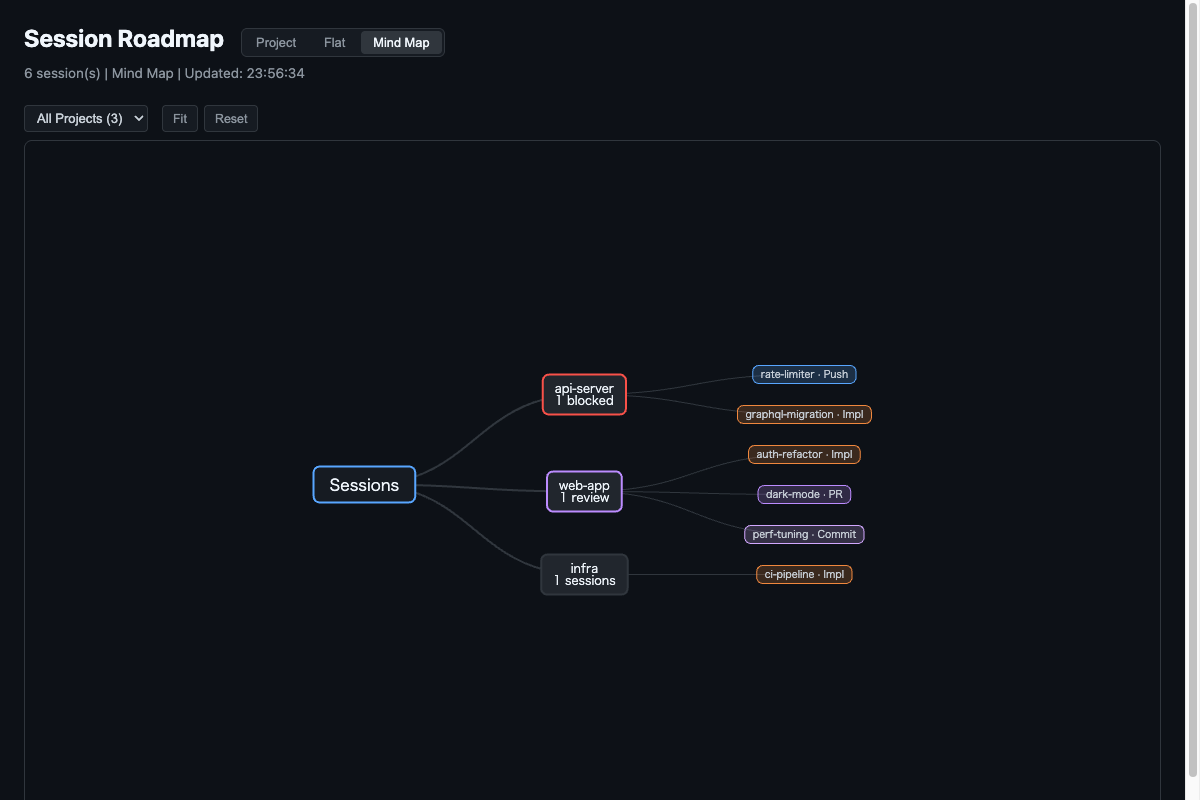
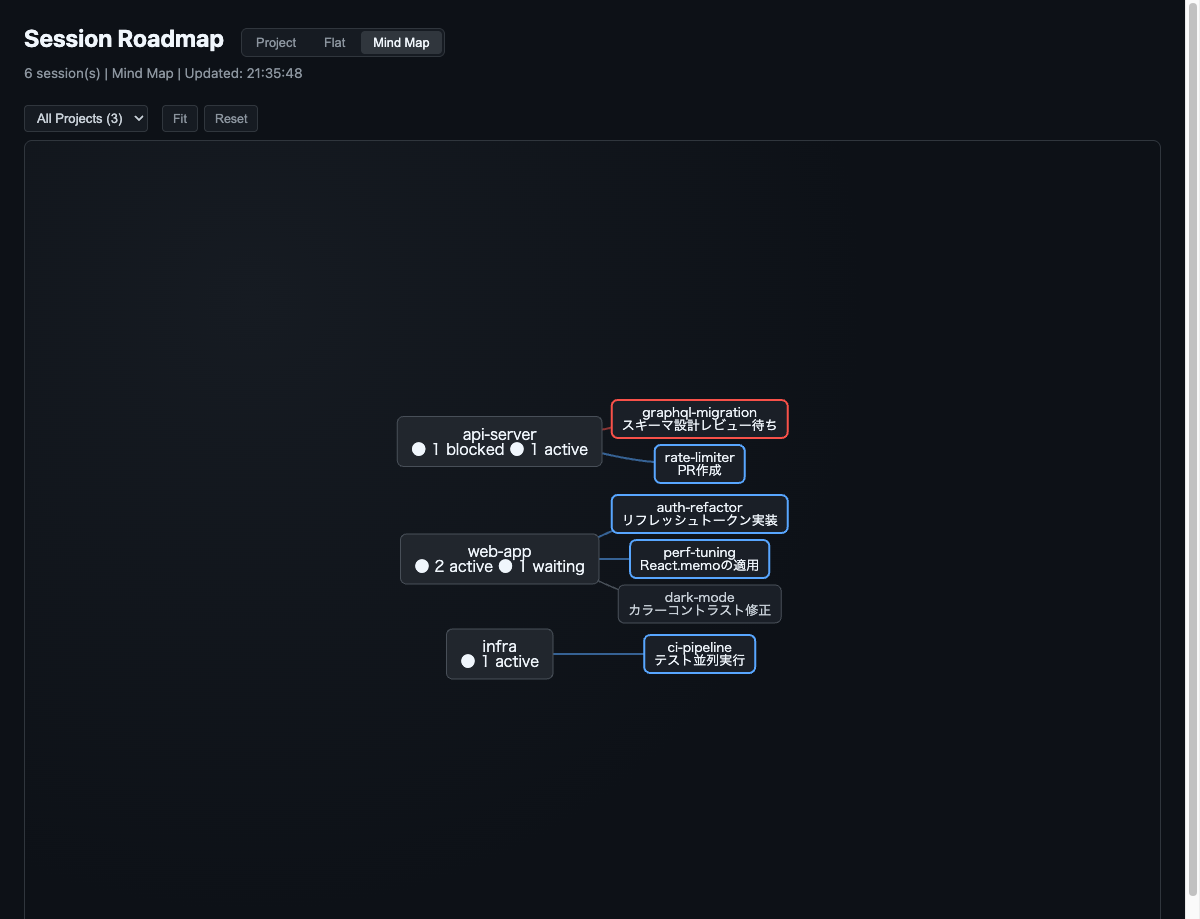
docs: README冒頭をMind Map推しに変更、スクショ撮り直し
- 冒頭にMind Map全体表示 + DAG詳細のスクショを配置
- 「セッションの全体像が一目でわかる」「セマンティックタスクフロー」を訴求
- Features リストでMind MapとAI Insightsを上位に
- v0.3.0のDAGデザインでスクショ撮り直し

Changed region(s): [[0.2467, 0.4062, 0.74, 0.75], [0.0, 0.0312, 0.37, 0.1562]]

diff --git a/README.ja.md b/README.ja.md
@@ -6,25 +6,32 @@
 
 [English](README.md)
 
-Claude Code セッションと git worktree をカンバン形式で管理する CLI ツール
+Claude Code セッションと git worktree を**マインドマップ**で管理する CLI ツール
+
+全セッションの全体像を一目で把握 — 何がアクティブで、何がブロックされていて、各タスクがどこに向かっているか。
+
+![Mind Map - 全体表示](assets/screenshot-mindmap-all.png)
+
+プロジェクトにドリルインすると、**セマンティックタスクフロー**が見える — 分岐・合流・棄却を DAG として可視化。
+
+![Mind Map - DAG 詳細](assets/screenshot-mindmap-detail.png)
 
 ![devctx list](assets/list.gif)
 
 ## 機能
 
+- **マインドマップ** - セマンティック DAG によるタスクフロー可視化（分岐・合流・棄却）
 - **カンバンビュー** - セッションの状態を一覧で把握
+- **AI インサイト** - Claude がセッションの目標・フォーカス・次のステップ・状態を推定
 - **自動セッション追跡** - Claude Code hooks による自動登録
 - **ステータス管理** - in-progress / review / blocked / done
-- **チェックリスト** - ステータス移行時の確認項目
 - **シェル統合** - ワンコマンドでコンテキスト切り替え
 - **fzf 連携** - 対話的なコンテキスト選択
 - **TUI ダッシュボード** - Bubble Tea による対話的 UI
 - **作業時間記録** - セッションごとの累計作業時間
-- **メモ機能** - コンテキストにメモを追加
 - **GitHub 連携** - Issue/PR の自動検出・リンク
 - **worktree 自動作成** - ブランチ作成から Claude 起動まで一発
-- **セッションロードマップ** - 開発フェーズの自動検出（idle → impl → committed → pushed → PR → done）
-- **AI インサイト** - Claude がセッションの目標・フォーカス・次のステップ・状態を推定
+- **セッションロードマップ** - 開発フェーズの自動検出
 
 ## インストール
 
@@ -343,11 +350,9 @@ devctx roadmap serve
 - **トピック＆タスク** - セッション毎のセマンティックトピックとタスクリスト
 - **イベントタイムライン** - カードクリックでイベント履歴を展開
 - **Project / Flat / Mind Map 表示** - グループ化・フラット・マインドマップ表示を切り替え
-- **マインドマップビュー** - 階層ツリー表示（Project → Session → Goal/Tasks/Phase）、要対応順ソート、単一プロジェクト時の階層省略、「No roadmap」警告、inspector パネル
+- **マインドマップビュー** - セマンティック DAG でタスクの分岐・合流・棄却を可視化。ノードをドラッグで配置調整可能
 
 ![Project View](assets/screenshot-project.png)
-![Mind Map - 全体表示](assets/screenshot-mindmap-all.png)
-![Mind Map - 詳細表示](assets/screenshot-mindmap-detail.png)
 
 ## トラブルシューティング
 

diff --git a/README.md b/README.md
@@ -6,25 +6,32 @@
 
 [日本語](README.ja.md)
 
-A CLI tool for managing Claude Code sessions and git worktrees in a kanban-style interface.
+A CLI tool for managing Claude Code sessions and git worktrees with **Mind Map visualization**.
+
+See all your sessions at a glance — what's active, what's blocked, and where each task is heading.
+
+![Mind Map - All Projects](assets/screenshot-mindmap-all.png)
+
+Drill into a project to see the **semantic task flow** — branching, merging, and rejected tasks visualized as a DAG.
+
+![Mind Map - DAG Detail](assets/screenshot-mindmap-detail.png)
 
 ![devctx list](assets/list.gif)
 
 ## Features
 
+- **Mind Map View** - Semantic DAG visualization of task flows (branching, merging, rejection)
 - **Kanban View** - Visualize session states at a glance
+- **AI Insights** - Claude infers goal, focus, next step, and attention state for each session
 - **Auto Session Tracking** - Automatic registration via Claude Code hooks
 - **Status Management** - in-progress / review / blocked / done
-- **Checklists** - Confirmation items during status transitions
 - **Shell Integration** - One-command context switching
 - **fzf Integration** - Interactive context selection
 - **TUI Dashboard** - Interactive UI powered by Bubble Tea
 - **Time Tracking** - Accumulated work time per session
-- **Notes** - Add memos to contexts
 - **GitHub Integration** - Auto-detect and link Issues/PRs
 - **Worktree Creation** - Create branch to Claude launch in one command
-- **Session Roadmap** - Auto-detect development phases (idle → impl → committed → pushed → PR → done)
-- **AI Insights** - Claude infers goal, focus, next step, and attention state for each session
+- **Session Roadmap** - Auto-detect development phases
 
 ## Installation
 
@@ -324,11 +331,9 @@ Opens a web dashboard at `http://localhost:3333` with:
 - **Topics & Tasks** - Semantic topics and task lists per session
 - **Event timeline** - Click a card to expand its full event history
 - **Project / Flat / Mind Map view** - Switch between grouped, flat, and mind map layouts
-- **Mind Map view** - Hierarchical tree visualization (Project → Session → Goal/Tasks/Phase) with priority sorting, hierarchy pruning for single projects, "No roadmap" warnings, and inspector panel
+- **Mind Map view** - Semantic DAG visualization with task branching, merging, and rejection. Drag nodes to rearrange.
 
 ![Project View](assets/screenshot-project.png)
-![Mind Map - All Projects](assets/screenshot-mindmap-all.png)
-![Mind Map - Detail](assets/screenshot-mindmap-detail.png)
 
 ## Troubleshooting
 
